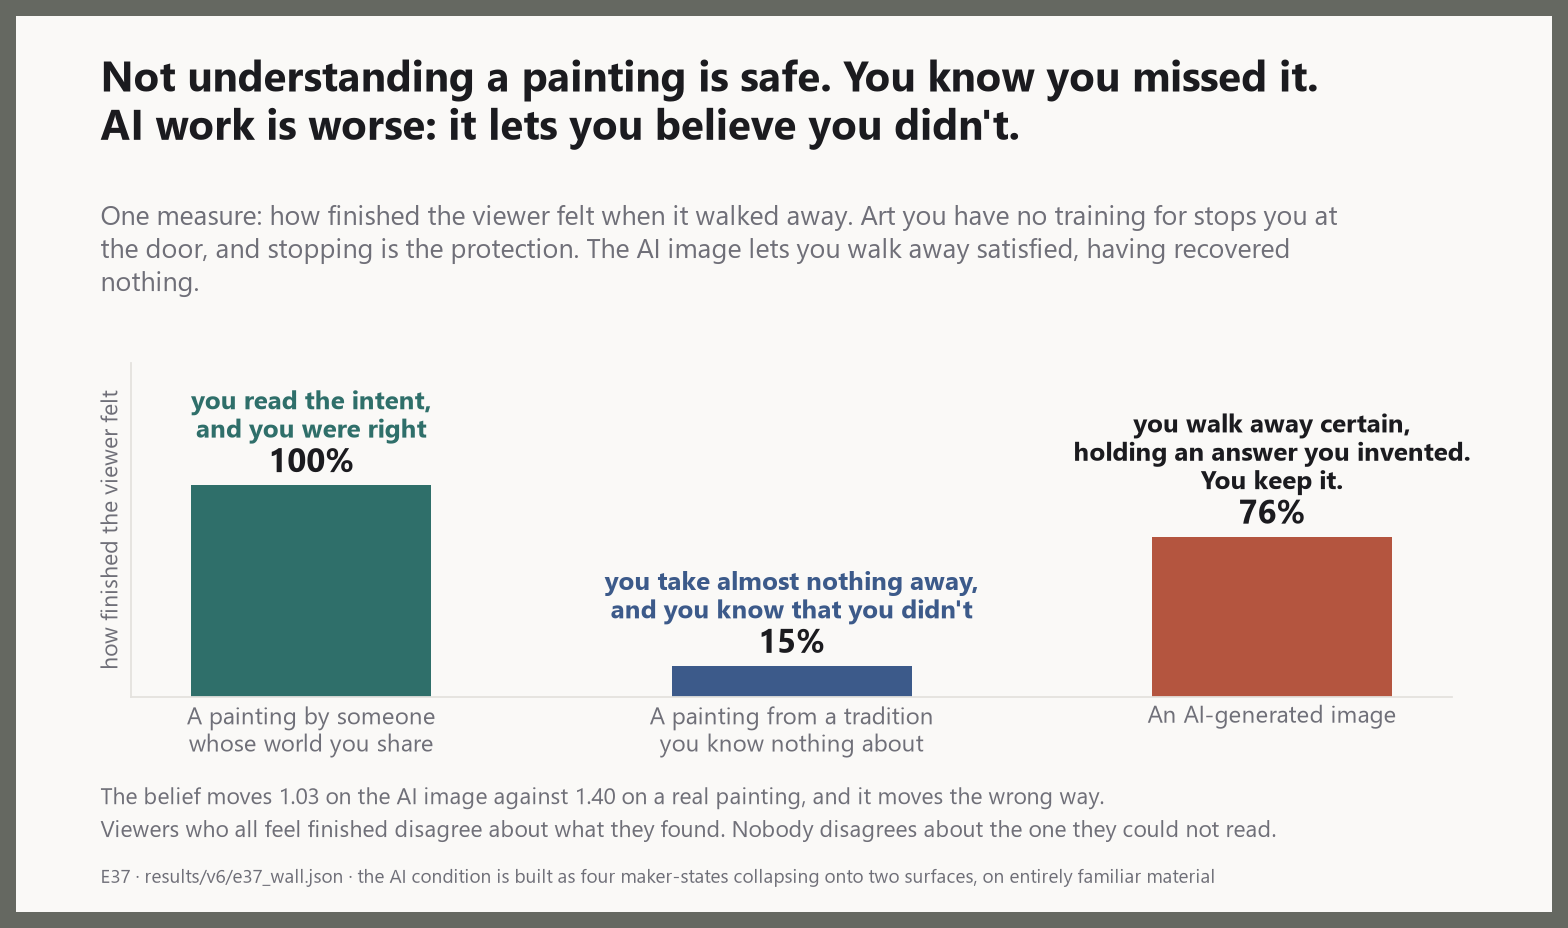
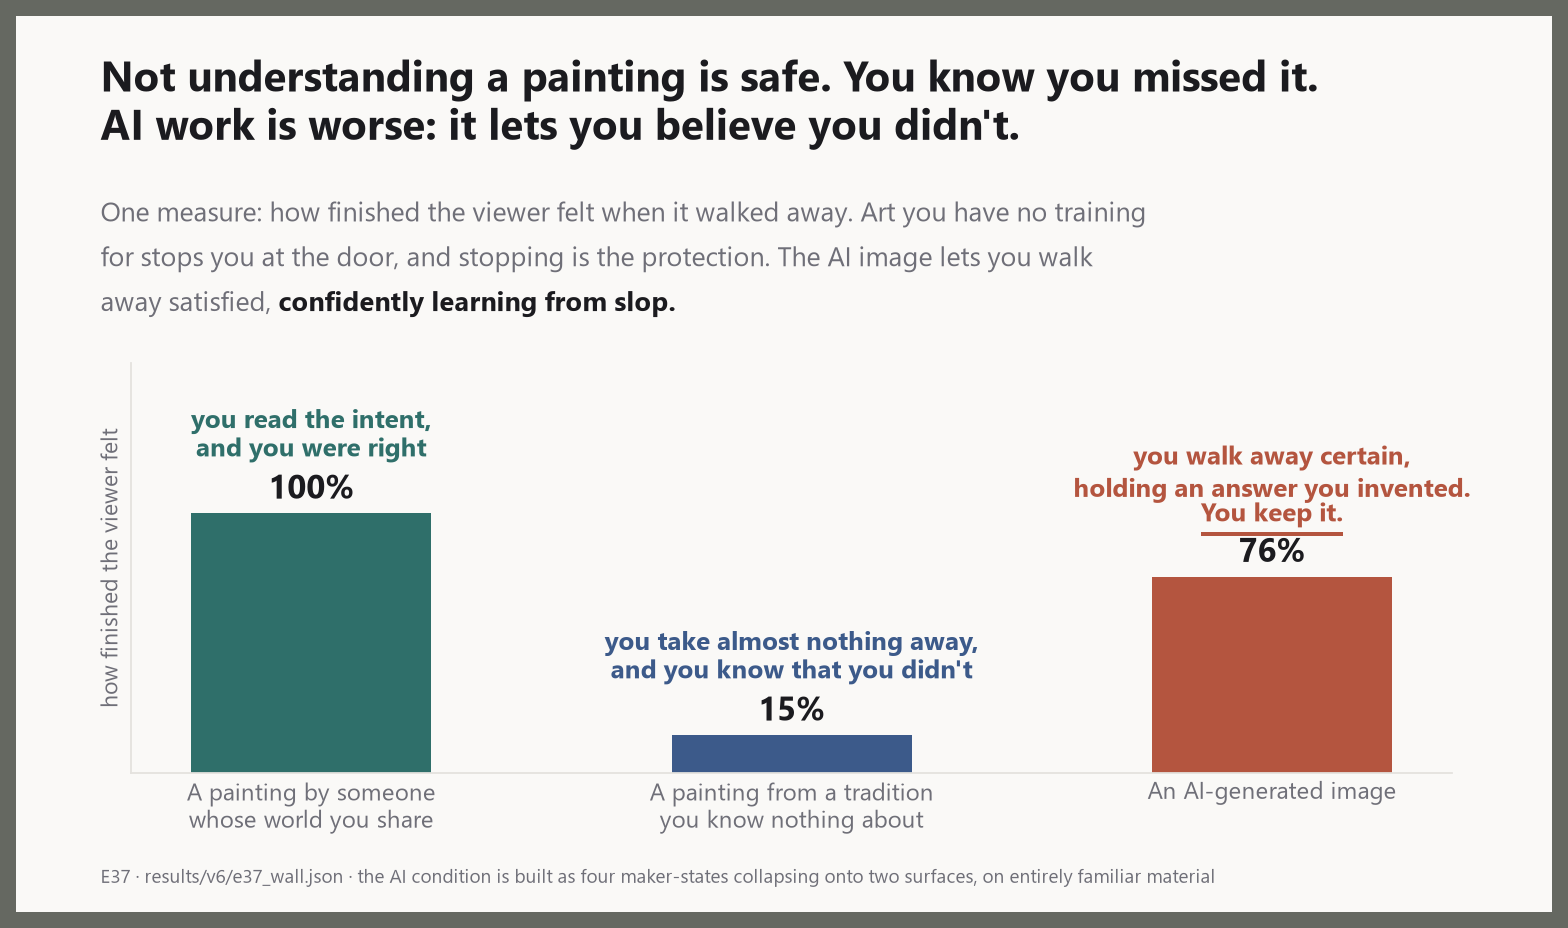
Apply the Ghost Scale to the plate's own prose, correctly this time
I had been treating black as "the important bit". It is not. Black is THE PART A
PERSON WROTE, wherever it lands, including mid-sentence inside grey machine
prose. Getting that wrong on a plate about intent density is worse than a
cosmetic error.

So plate 3's subtitle is now drawn by hand rather than through plate(). The grey
runs on to "...lets you walk away satisfied," and then the author's clause,
"confidently learning from slop", arrives in black on the same line. The switch
happens mid-sentence because that is where the person wrote. The x-offset is
measured off the grey fragment's own rendered extent rather than guessed.

The chart annotation goes back to the series colour, because a label on a bar
follows its bar. "You keep it." is underlined, drawn from the text's measured
extent since matplotlib has no underline.

Dropped the grey supporting line under the chart. It was accurate and it made
the plate busy, and the numbers in it are already in the walkthrough prose where
there is room to say them properly.

243 tests passing.

diff --git a/scripts/make_walkthrough_plates.py b/scripts/make_walkthrough_plates.py
@@ -155,13 +155,41 @@ def plate_03_the_wall():
     logn = float(np.log(4))
     settled = [100.0 * (1.0 - e / logn) for e in ent]
 
+    # THE GHOST SCALE, APPLIED TO THE PROSE ON THE PLATE, AND APPLIED CORRECTLY THIS TIME.
+    #
+    # Black is not "the important bit". Black is THE PART A PERSON WROTE, wherever it happens to
+    # land, including mid-sentence inside grey machine prose. So the subtitle is drawn by hand here
+    # rather than through plate(): the grey runs on until the author's clause, the author's clause
+    # is black, and the switch happens on the same line. That is the whole point of the scale and
+    # it does not survive being rounded to "highlight the punchy part".
+    #
+    # The chart annotation goes back to the series colour, because it is a label on a bar and
+    # labels follow their series.
     fig, ax = plate(
         "Not understanding a painting is safe. You know you missed it.\nAI work is worse: it lets you believe you didn't.",
-        "One measure: how finished the viewer felt when it walked away. Art you have no training "
-        "for stops you at the door, and stopping is the protection. The AI image lets you walk away "
-        "satisfied, having recovered nothing.",
+        "",
         "E37 · results/v6/e37_wall.json · the AI condition is built as four maker-states collapsing "
         "onto two surfaces, on entirely familiar material")
+
+    sub_y, step = 0.793, 0.050
+    grey_lines = [
+        "One measure: how finished the viewer felt when it walked away. Art you have no training",
+        "for stops you at the door, and stopping is the protection. The AI image lets you walk",
+    ]
+    for i, ln in enumerate(grey_lines):
+        fig.text(0.055, sub_y - step * i, ln, fontsize=12, color=MUTED, va="top")
+
+    tail_y = sub_y - step * len(grey_lines)
+    tail = fig.text(0.055, tail_y, "away satisfied, ", fontsize=12, color=MUTED, va="top")
+    fig.canvas.draw()
+    r = fig.canvas.get_renderer()
+    x_after = fig.transFigure.inverted().transform(
+        (tail.get_window_extent(renderer=r).x1, 0))[0]
+    fig.text(x_after, tail_y, "confidently learning from slop.",
+             fontsize=12, color=INK, fontweight="bold", va="top")
+
+    pos = ax.get_position()
+    ax.set_position([pos.x0, pos.y0, pos.width, pos.height - 0.10])
 
     xs = np.arange(3)
     bars = ax.bar(xs, settled, width=0.5, color=[o[2] for o in order])
@@ -174,31 +202,25 @@ def plate_03_the_wall():
     clean_axis(ax, "how finished the viewer felt")
     ax.set_yticks([])
 
-    # "There was nothing to take" was too soft, and it was also not what happened. The viewer's
-    # belief MOVES 1.03 here, nearly as far as on a real painting at 1.40, and it moves the wrong
-    # way. They did not come away empty. They came away carrying something they made up.
-    #
-    # The third note is INK rather than the series colour. That is the Ghost Scale played on the
-    # plate: this reading came from a person, so it is black. The supporting line underneath is
-    # grey, which is this repository's mark for prose with less of a person in it.
-    notes = ["you read the intent,\nand you were right",
-             "you take almost nothing away,\nand you know that you didn't",
-             "you walk away certain,\nholding an answer you invented.\nYou keep it."]
-    for i, (n, col) in enumerate(zip(notes, [HUMAN, COOL, INK])):
-        annotate(ax, i, settled[i] + 19, n, color=col, fontsize=11.5, weight="bold",
-                 ha="center", va="bottom")
+    annotate(ax, 0, settled[0] + 19, "you read the intent,\nand you were right",
+             color=HUMAN, fontsize=11.5, weight="bold", ha="center", va="bottom")
+    annotate(ax, 1, settled[1] + 19, "you take almost nothing away,\nand you know that you didn't",
+             color=COOL, fontsize=11.5, weight="bold", ha="center", va="bottom")
 
-    # Lift the axes to make room. The supporting line has to sit clear of the category labels, and
-    # those hang below the axes rather than inside them.
-    pos = ax.get_position()
-    ax.set_position([pos.x0, pos.y0 + 0.085, pos.width, pos.height - 0.085])
-
-    fig.text(0.055, 0.072,
-             f"The belief moves {c['noninvertible']['movement']:.2f} on the AI image against "
-             f"{c['human']['movement']:.2f} on a real painting, and it moves the wrong way.\n"
-             f"Viewers who all feel finished disagree about what they found. Nobody disagrees "
-             f"about the one they could not read.",
-             fontsize=10.5, color=MUTED, va="bottom", linespacing=1.5)
+    # "You keep it." carries the threat, so it is underlined. Matplotlib has no underline, so the
+    # rule is drawn from the text's own measured extent.
+    keep = ax.text(2, settled[2] + 19, "You keep it.", color=MACHINE, ha="center", va="bottom",
+                   fontsize=11.5, fontweight="bold", zorder=5)
+    ax.text(2, settled[2] + 27, "you walk away certain,\nholding an answer you invented.",
+            color=MACHINE, ha="center", va="bottom", fontsize=11.5, fontweight="bold",
+            linespacing=1.35, zorder=5)
+    fig.canvas.draw()
+    bb = keep.get_window_extent(renderer=fig.canvas.get_renderer())
+    inv = ax.transData.inverted()
+    x0, y0 = inv.transform((bb.x0, bb.y0))
+    x1, _ = inv.transform((bb.x1, bb.y0))
+    ax.plot([x0, x1], [y0 - 2.4, y0 - 2.4], color=MACHINE, lw=1.8, zorder=5,
+            solid_capstyle="butt")
     record(save(fig, "03_legible_and_empty"),
            "A third kind of failure, built because the existing account did not match what people "
            "actually report about generated text.")
